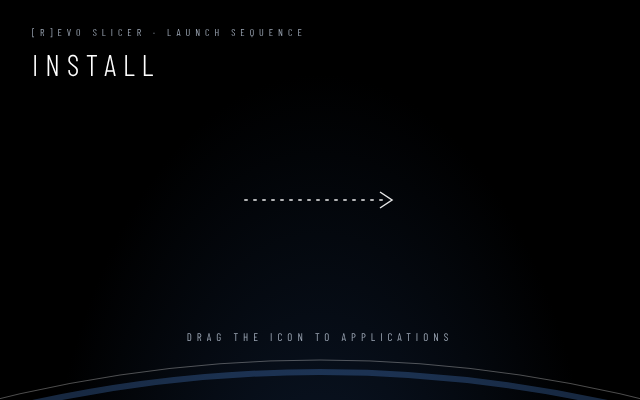
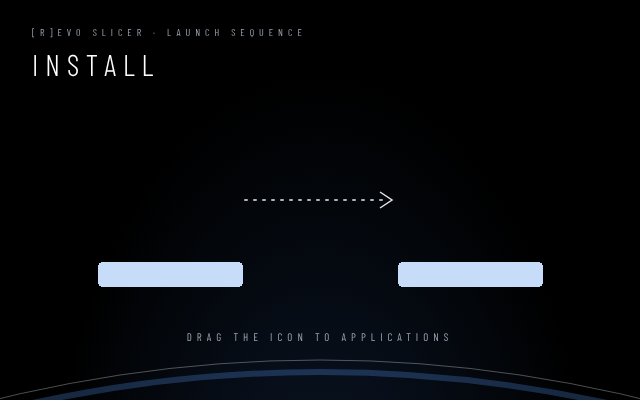
Kreator: marka bez (Undefined) i bez podstawiania pierwszej z listy; instalator: czytelne podpisy pod ikonami

Changed region(s): [[0.625, 0.63, 0.875, 0.72], [0.1562, 0.63, 0.4062, 0.72]]

diff --git a/src/slic3r/GUI/RevoKreator.cpp b/src/slic3r/GUI/RevoKreator.cpp
@@ -1027,7 +1027,7 @@ private:
         std::set<std::string> b;
         for (const Preset& p : wxGetApp().preset_bundle->filaments.get_presets()) {
             const std::string v = p.config.opt_string("filament_vendor", 0u);
-            if (!v.empty() && v != "Generic") b.insert(v);
+            if (!v.empty() && v != "Generic" && v.front() != '(') b.insert(v); // bez „(Undefined)”
         }
         wxArrayString out;
         for (const auto& v : b) out.Add(from_u8(v));
@@ -1073,6 +1073,7 @@ private:
             bcol->Add(label(m_body, spaced(_L("Brand - type your own or pick from the list"), 2), 9, kMuted), 0, wxTOP, FromDIP(16));
             m_brand_ctrl = new wxComboBox(m_body, wxID_ANY, m_brand, wxDefaultPosition, FromDIP(wxSize(-1, 34)), known_brands(), wxCB_DROPDOWN | wxCB_SORT);
             m_brand_ctrl->SetHint(_L("Your own brand"));
+            m_brand_ctrl->ChangeValue(m_brand); // nie podstawiaj pierwszej marki z listy
             bcol->Add(m_brand_ctrl, 0, wxEXPAND | wxTOP, FromDIP(6));
             bc->Add(bcol, 1, wxRIGHT, FromDIP(16));
             auto* ccol = new wxBoxSizer(wxVERTICAL);
